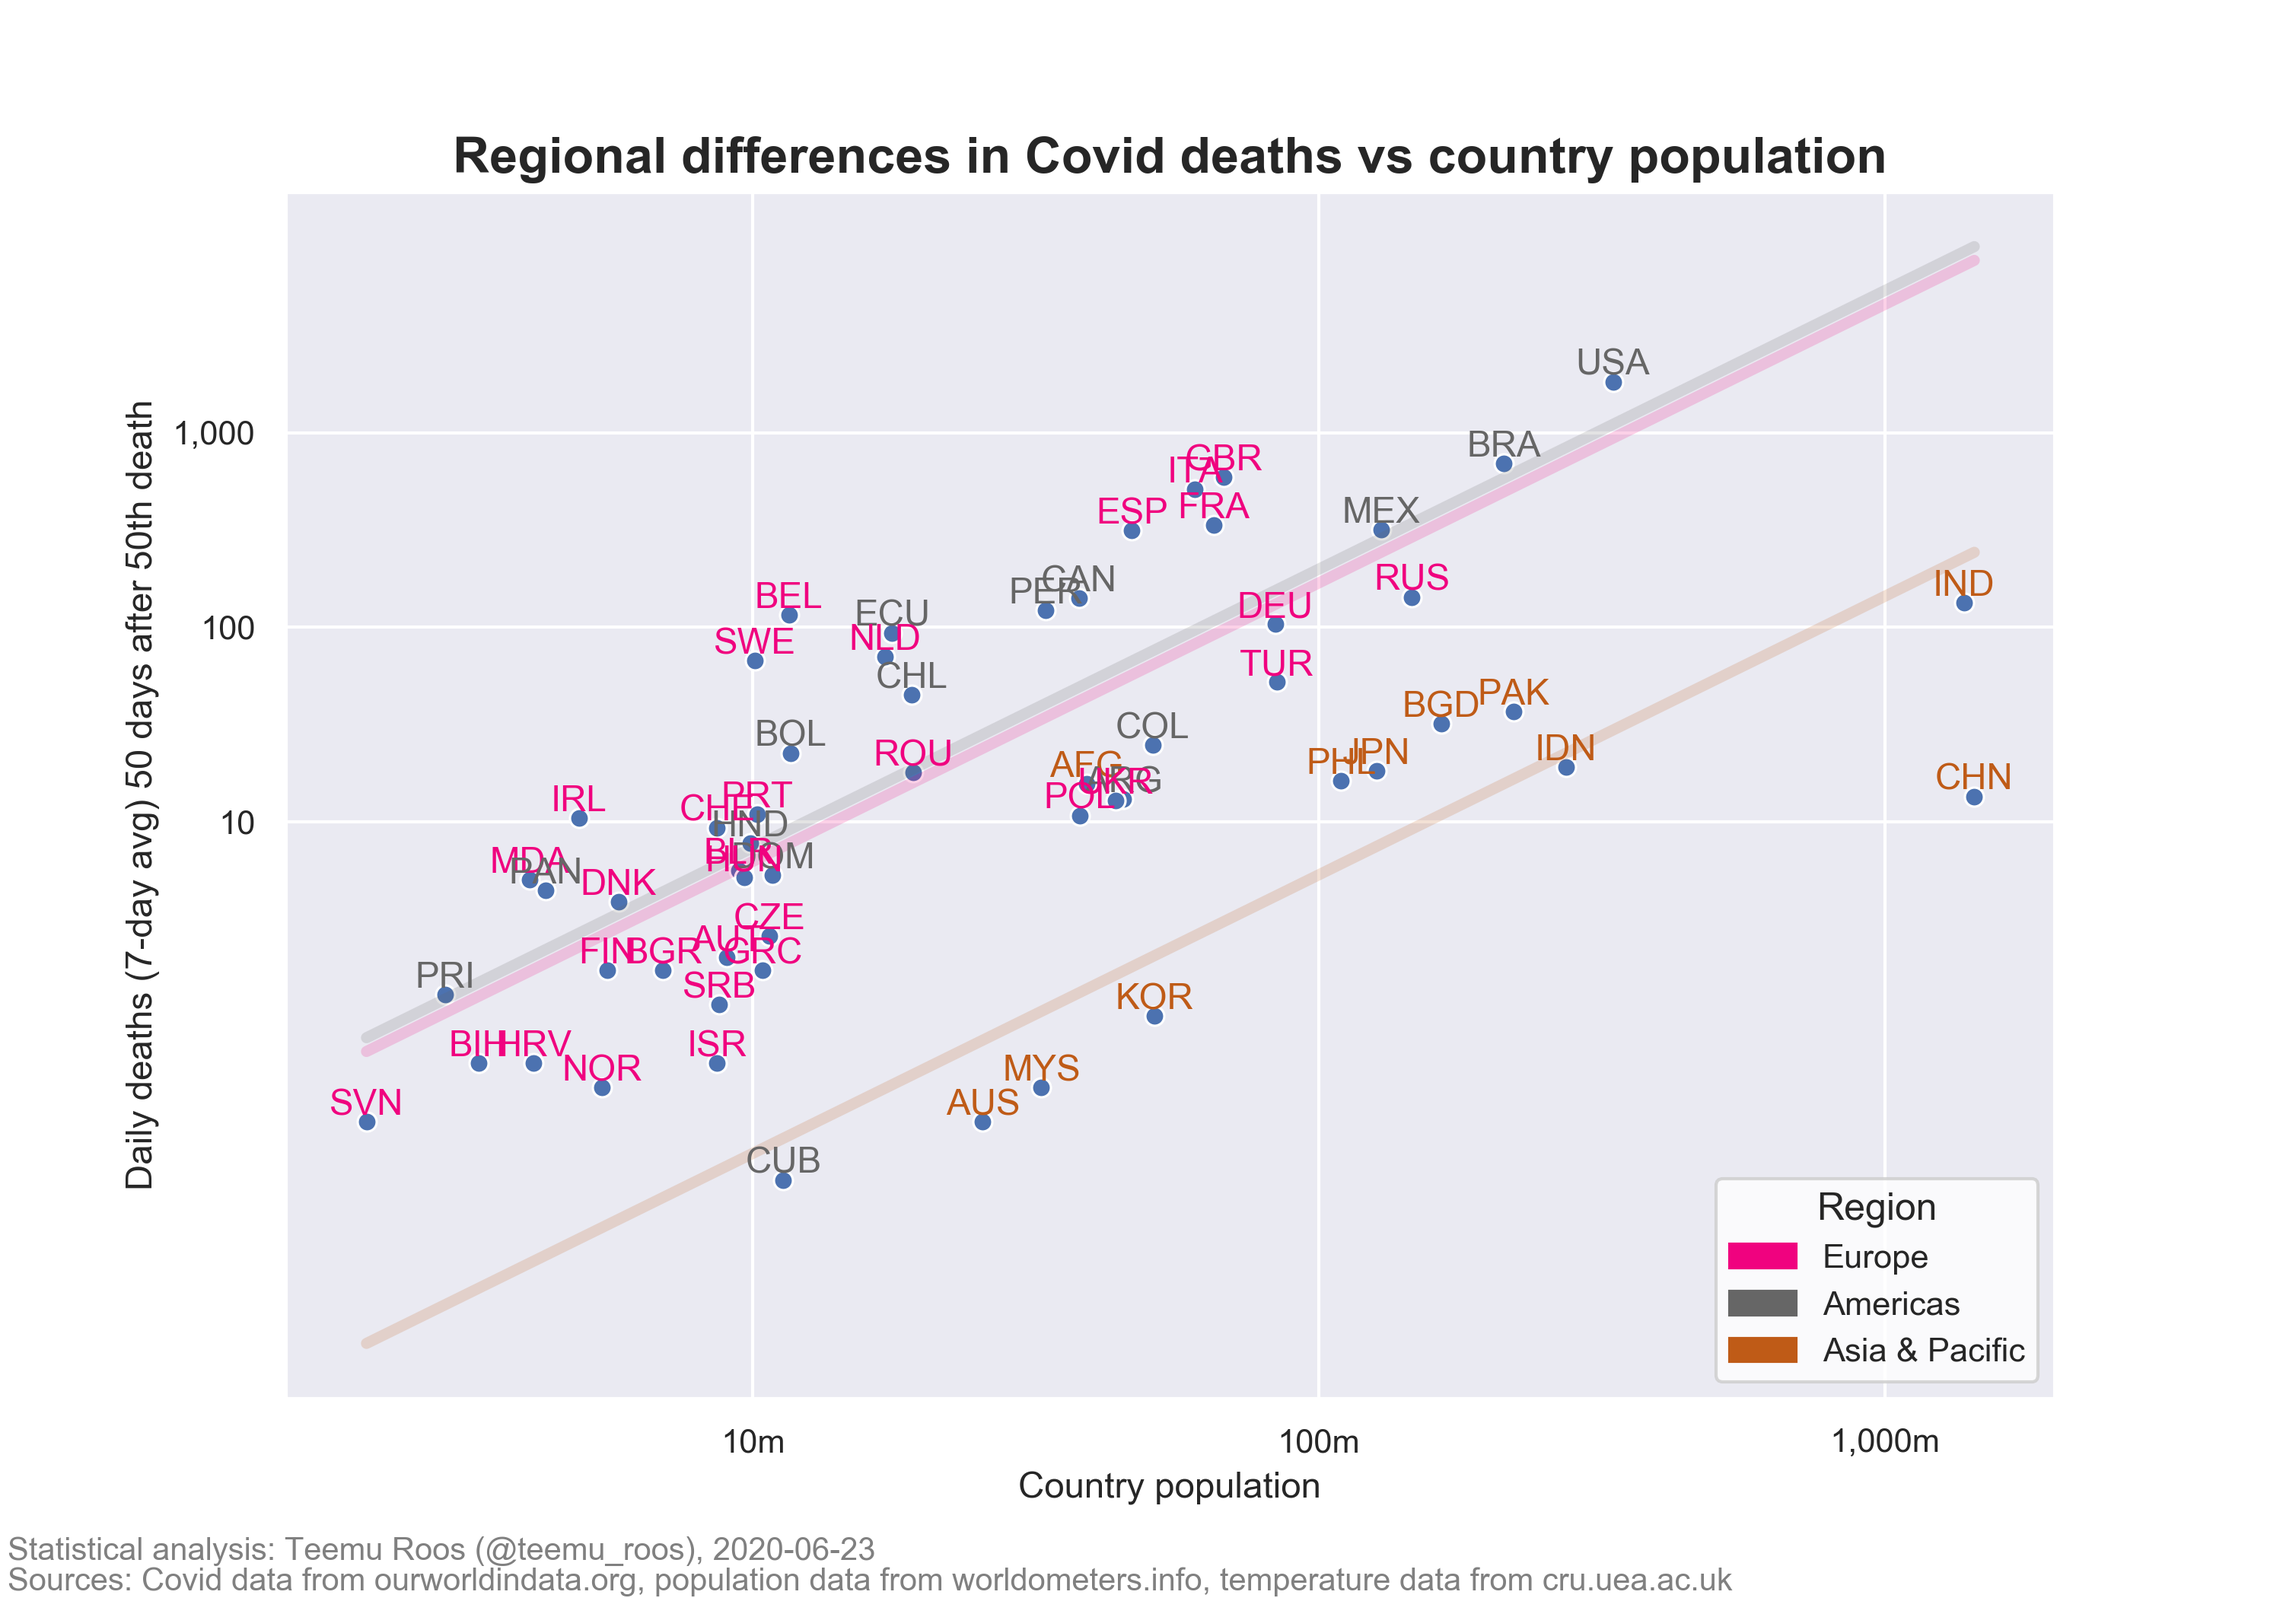
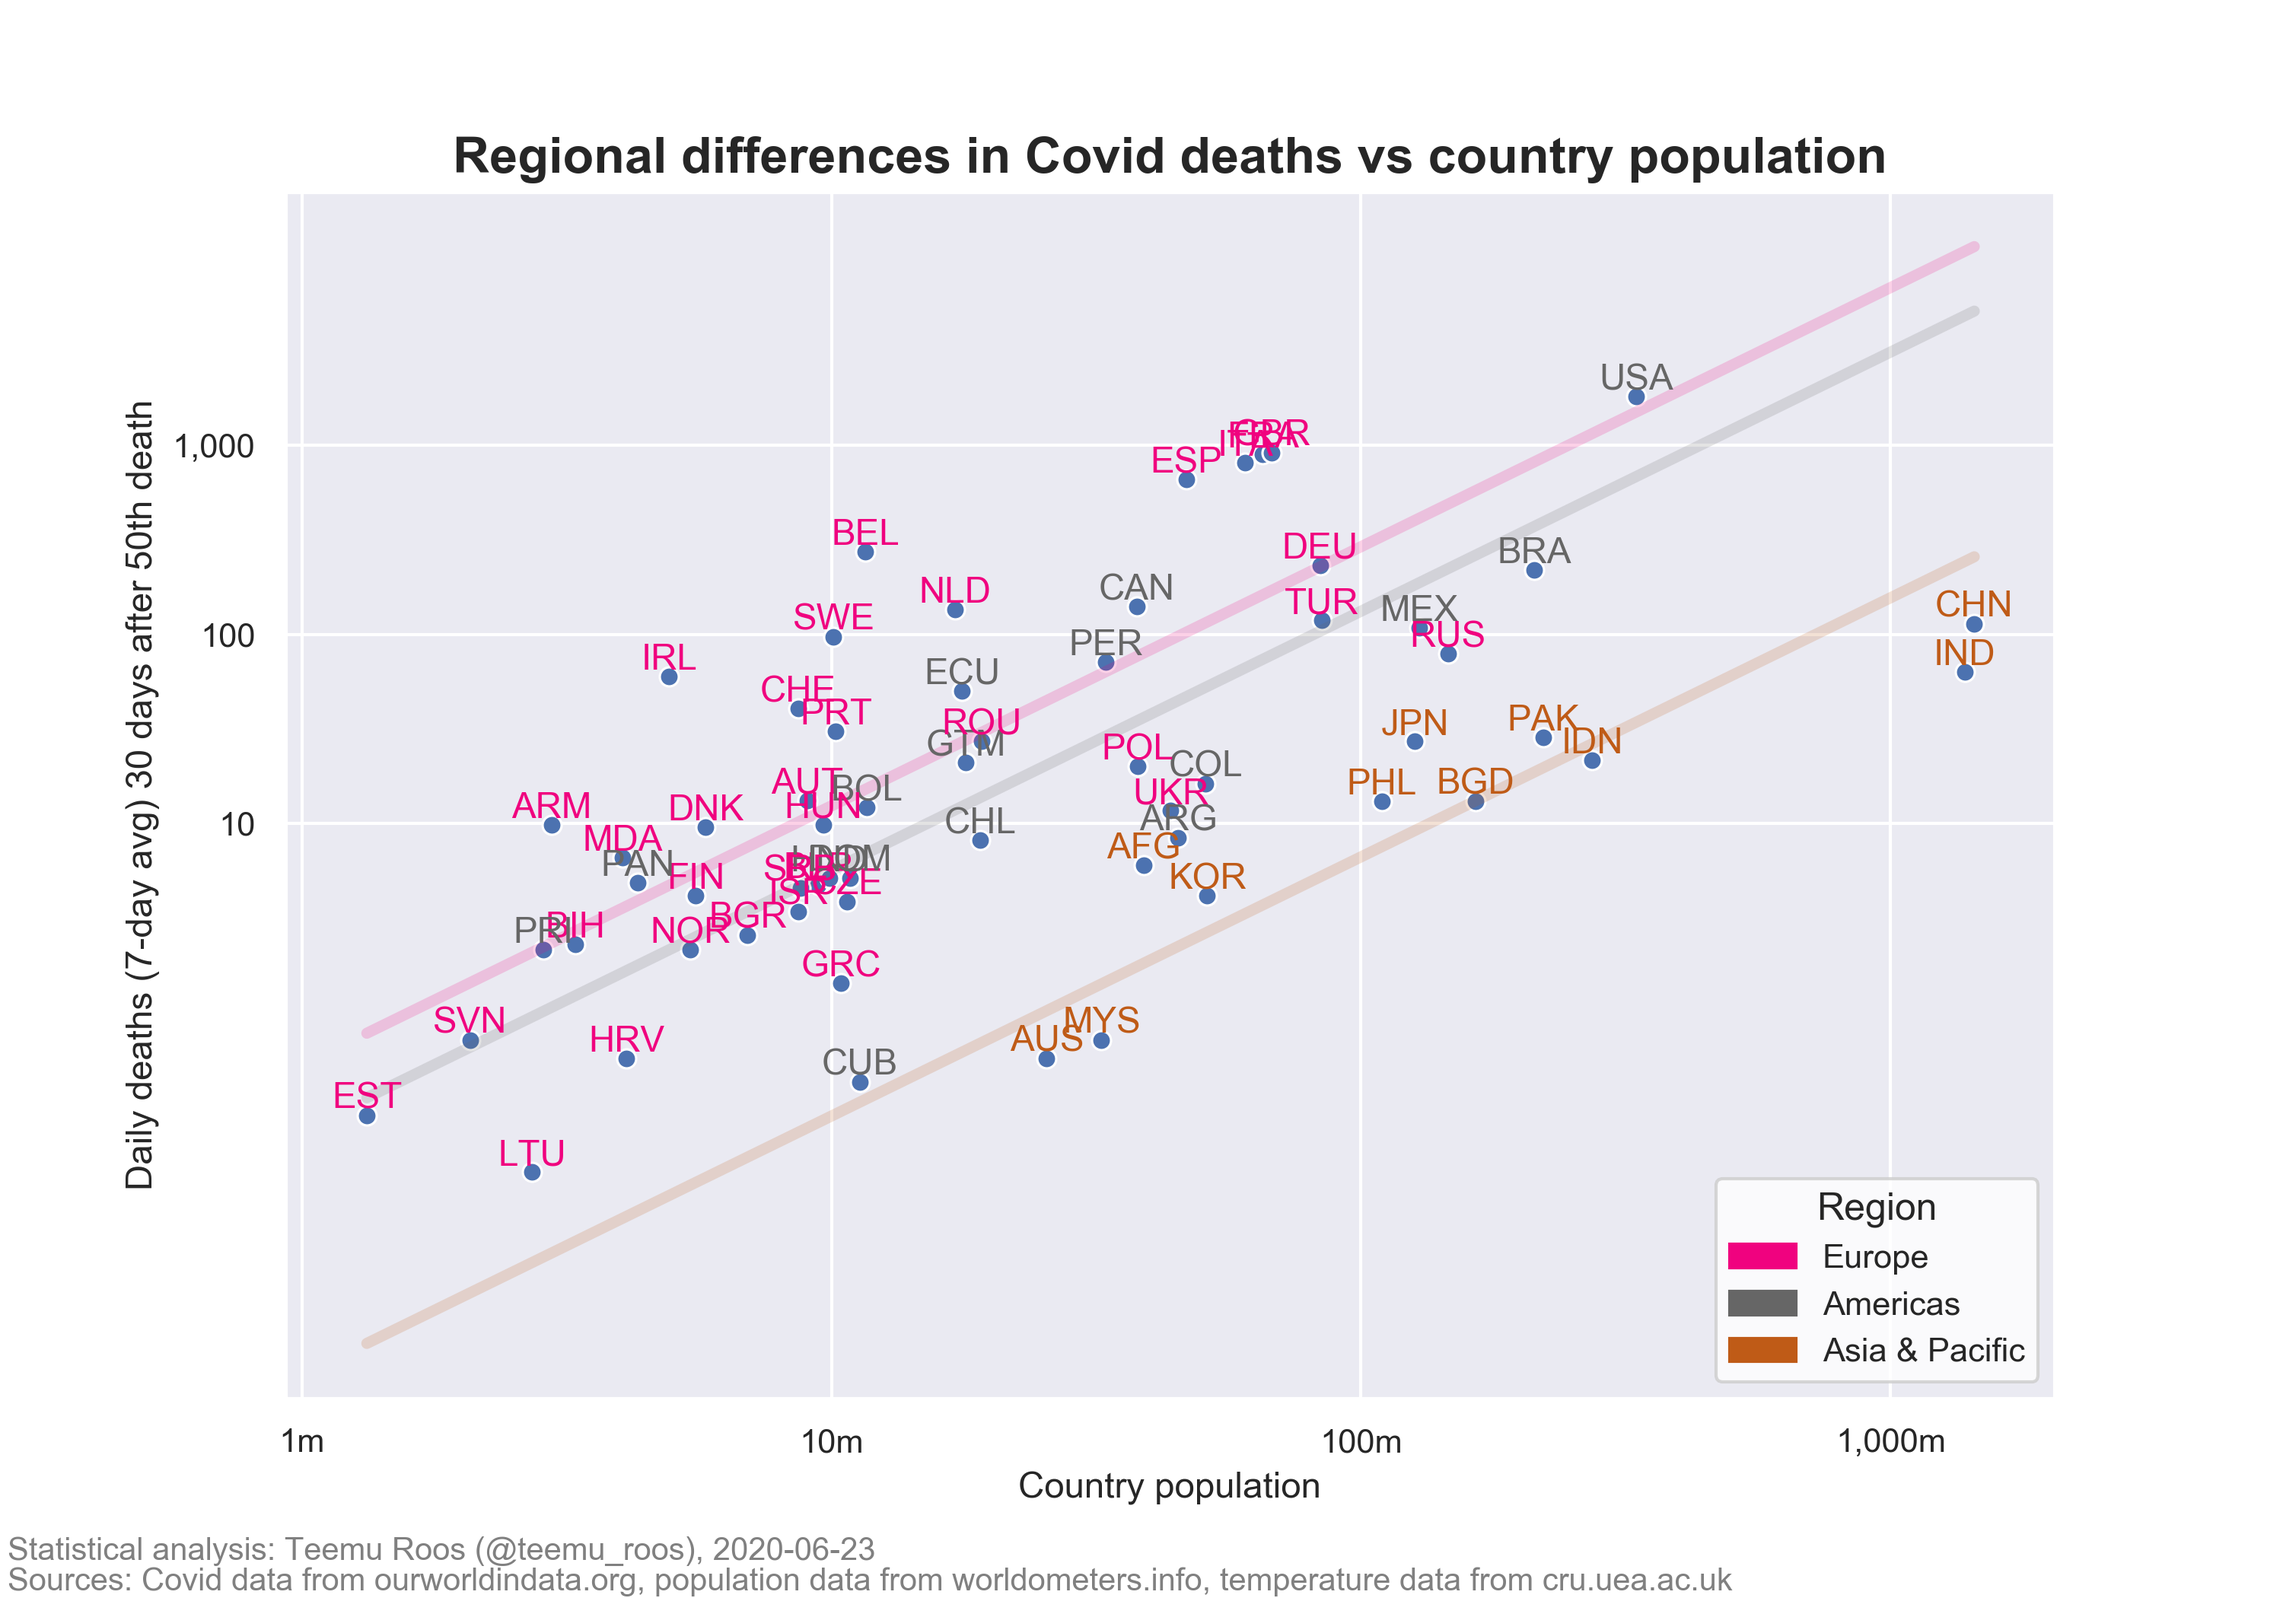
30 day lag

diff --git a/country_size_deaths.py b/country_size_deaths.py
@@ -66,14 +66,14 @@ isocode = {}
 day0 = {}
 region = {}
 startdeaths = 50
-lag = 50
+lag = 30
 selectorlag = lag
 ddayX = {}
 
 use_density_instead_of_pop = False    # outcome is uninteresting but had to check
 
-use_density_as_covariate = True
-use_temp_as_covariate = True
+use_density_as_covariate = False
+use_temp_as_covariate = False
 
 # combine population, population density, Covid and region data from three different dataframes
 

diff --git a/README.md b/README.md
@@ -7,12 +7,12 @@ For an explanation of the analysis, see https://twitter.com/teemu_roos/status/12
 
 Model | R-squared
 ------|----------
-population | 0.377
-population & region | 0.647
-population & region & Feb temp. | 0.648
-population & region & pop-density | 0.657
-population & region & pop-density & Feb temp. | 0.660
+population | 0.359
+population & region | 0.638
+population & region & Feb temp. | 0.640
+population & region & pop-density | 0.650
+population & region & pop-density & Feb temp. | 0.656
 
-### Example chart: No temperatures or population density, R-squared 0.647
+### Example chart: No temperatures or population density, R-squared 0.638
 
 ![](figures/Rsquared.png)
